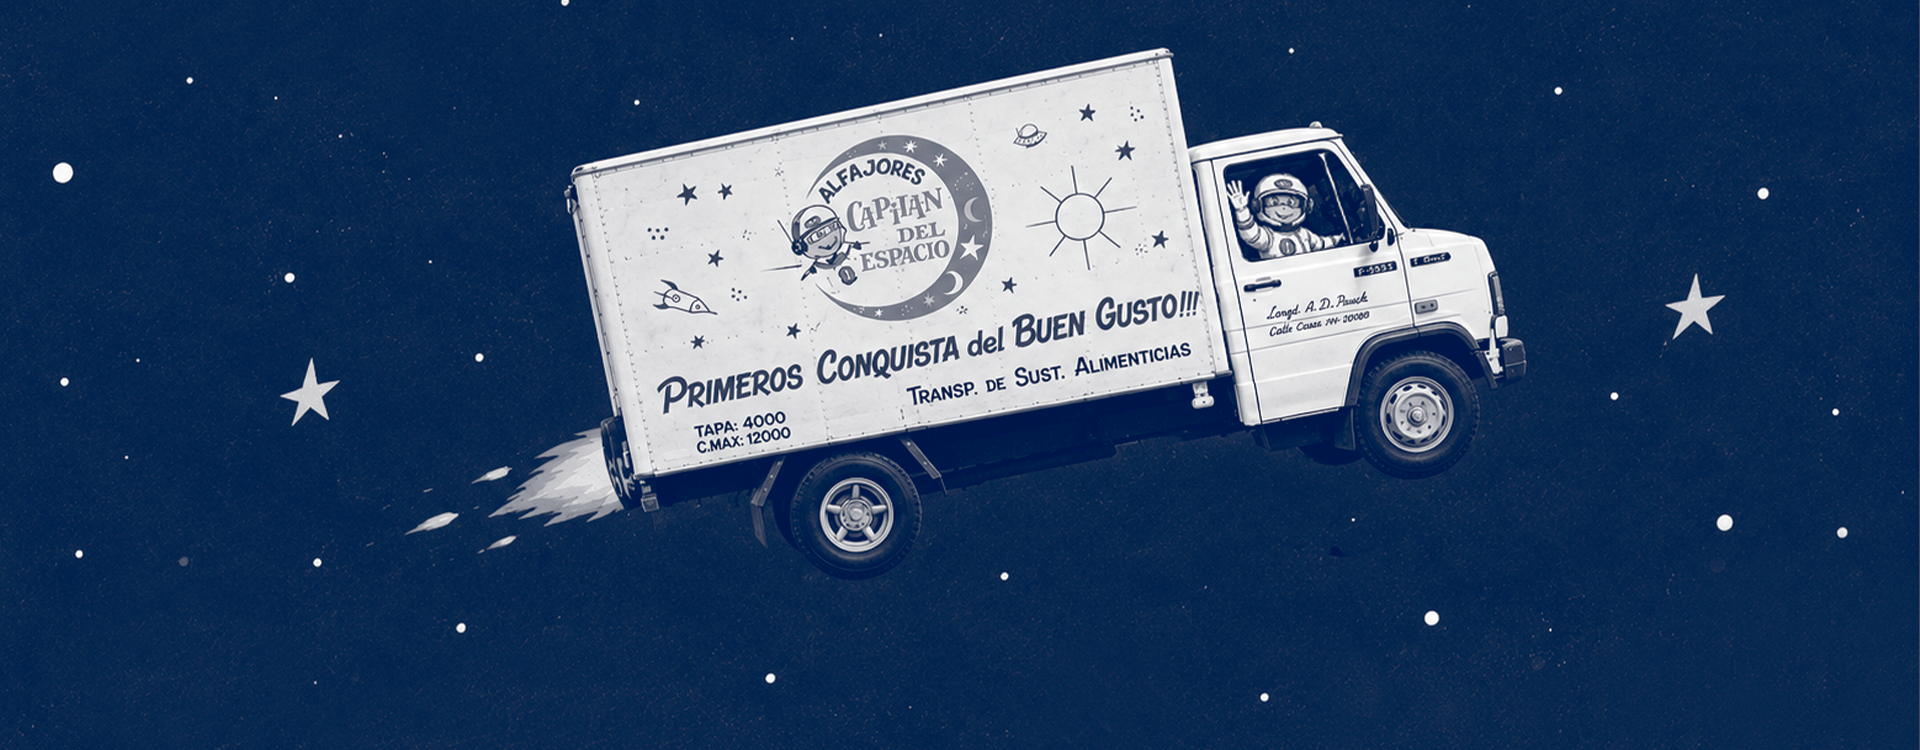
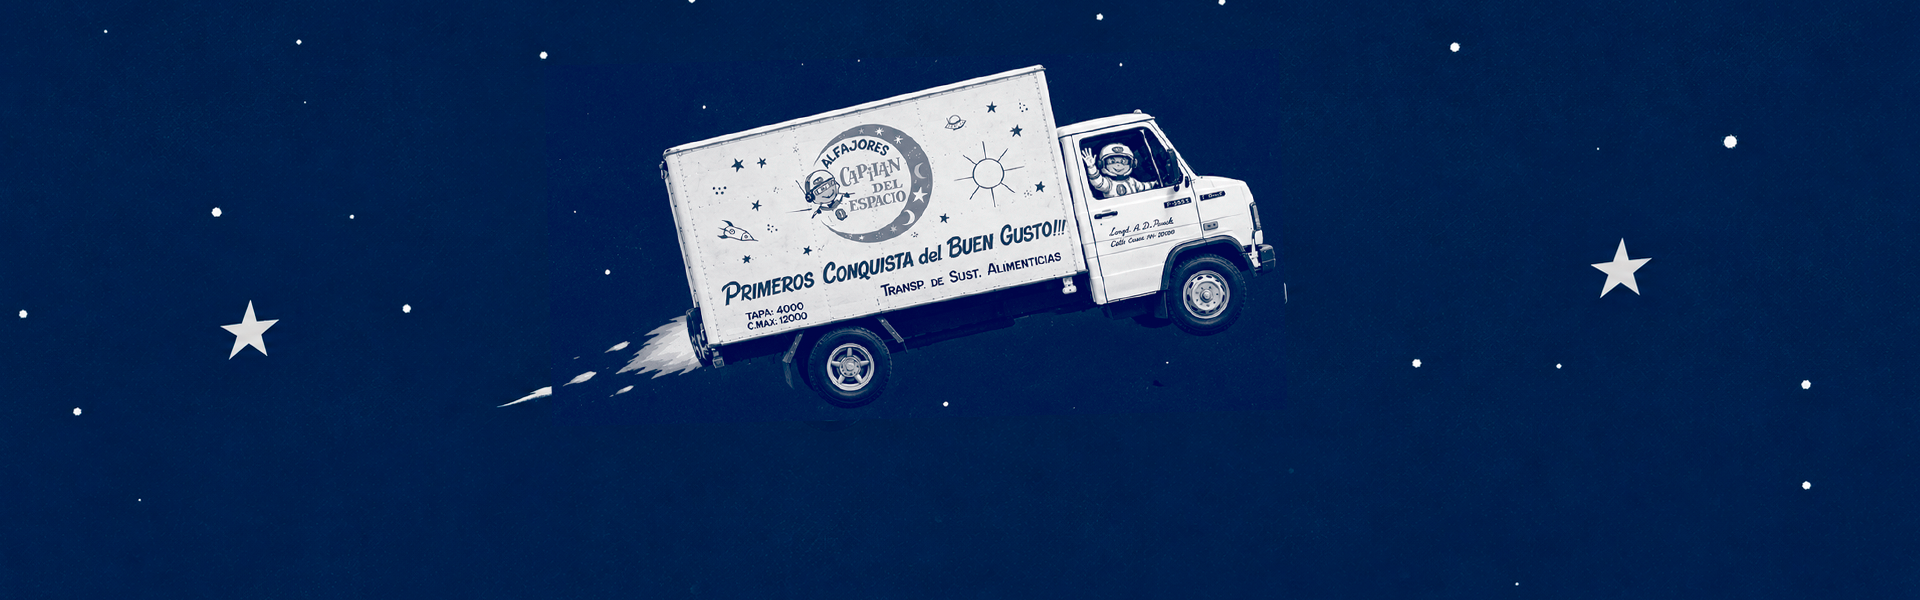
actualizacion

diff --git a/productos.html b/productos.html
@@ -23,7 +23,7 @@
                 <img src="images/svg/logo-header.svg" alt="Capitán del Espacio" width="129" height="60">
             </a>
 
-            <!-- navegación-->
+            <!-- navegación y buscador -->
             <div class="panel" id="panel">
                 <!-- Navegación -->
                 <nav class="navegacion" aria-label="Principal">
@@ -37,7 +37,23 @@
                         <li><a class="navegacion-enlace navegacion-enlace-tienda" href="tienda.html">Tienda</a></li>
                     </ul>
                 </nav>
+
+                <!-- Buscador -->
+                <div class="buscador" role="search">
+                    <label class="oculto-visual" for="campo-busqueda">Buscar en el sitio</label>
+                    <input class="buscador-campo" id="campo-busqueda" type="search" name="q" autocomplete="off">
+                    <button class="buscador-boton" type="submit" aria-label="Buscar"></button>
+                </div>
             </div>
+
+            <!-- Acciones y botones -->
+            <div class="acciones">
+                <!-- acá después hay que cambiar el href por los archivos de registro y de carrito -->
+                <a class="acciones-boton acciones-boton-registro" href="#" aria-label="Iniciar sesión"></a>
+                <a class="acciones-boton acciones-boton-carrito" href="#" aria-label="Carrito"></a>
+            </div>
+
+        </div>
     </header>
 
     <main>
@@ -79,72 +95,66 @@
             <article class="triple">
                 <h2>Triple</h2>
                 <p>Relleno con dulce de leche</p>
-                <p>recubierto con baño de resposteria</p> 
+                <p>recubierto con baño de resposteria</p>
                 <p>de chocolate blanco</p>
                 <img src="images/productos/sabores_alfajor_triple.png" alt="alfajor fruta" height="309" width="243">
             </article>
         </section>
 
         <section class="alfajor-del-año">
-            <h2>alfajor del año</h2>
+            <h2 class="titulo-alfajor-del-año">ALFAJOR DEL AÑO</h2>
             <p>El más elegido por nuestros consumidores</p>
             <p>desde el 1/01/2025 hasta el 31/12/2025</p>
-            <h2 class="fruta">
-                <span>F</span>
-                <span>R</span>
-                <span>U</span>
-                <span>T</span>
-                <span>A</span>
-            </h2>
+            <h2 class="fruta-destacado">FRUTA</h2>
             <img src="images/productos/sabores_alfajor_fruta.png" alt="alfajor del año:fruta" height="309" width="243">
         </section>
 
     </main>
 
-        <footer class="footer">
-            <div class="footer-contenido">
+    <footer class="footer">
+        <div class="footer-contenido">
 
-                <!-- Redes y datos de contacto -->
-                <div class="footer-info">
-                    <ul class="footer-redes">
-                        <li><a class="footer-redes-enlace footer-redes-instagram" href="#" aria-label="Instagram"></a>
-                        </li>
-                        <li><a class="footer-redes-enlace footer-redes-facebook" href="#" aria-label="Facebook"></a>
-                        </li>
-                        <li><a class="footer-redes-enlace footer-redes-tiktok" href="#" aria-label="TikTok"></a></li>
-                        <li><a class="footer-redes-enlace footer-redes-youtube" href="#" aria-label="YouTube"></a></li>
-                    </ul>
+            <!-- Redes y datos de contacto -->
+            <div class="footer-info">
+                <ul class="footer-redes">
+                    <li><a class="footer-redes-enlace footer-redes-instagram" href="#" aria-label="Instagram"></a>
+                    </li>
+                    <li><a class="footer-redes-enlace footer-redes-facebook" href="#" aria-label="Facebook"></a>
+                    </li>
+                    <li><a class="footer-redes-enlace footer-redes-tiktok" href="#" aria-label="TikTok"></a></li>
+                    <li><a class="footer-redes-enlace footer-redes-youtube" href="#" aria-label="YouTube"></a></li>
+                </ul>
 
-                    <address class="footer-contacto">
-                        <p>4253-5224</p>
-                        <p>info@capitandelespaciomr.com.ar</p>
-                        <p>Gran Canaria 1250, B1879, Quilmes, Buenos Aires.</p>
-                    </address>
-                </div>
-
-                <!-- Suscripción -->
-                <div class="footer-suscripcion">
-                    <img class="footer-alfajor" src="images/svg/ilus-alfajor-footer.svg" alt="" width="93" height="121">
-
-                    <div class="footer-comunidad">
-                        <p class="footer-comunidad-titulo">Sumate a nuestra comunidad</p>
-                        <p class="footer-comunidad-texto">Suscribite y recibí un 10% off en tu próxima compra.</p>
-
-                        <form class="footer-formulario" action="mailto:info@capitandelespaciomr.com.ar" method="get">
-                            <input type="hidden" name="subject" value="Suscripción a la comunidad">
-                            <label class="oculto-visual" for="campo-correo">Tu correo electrónico</label>
-                            <input class="footer-formulario-campo" id="campo-correo" type="email" name="body"
-                                placeholder="ejemplo@gmail.com.ar" autocomplete="email" required>
-                        </form>
-                    </div>
-                </div>
+                <address class="footer-contacto">
+                    <p>4253-5224</p>
+                    <p>info@capitandelespaciomr.com.ar</p>
+                    <p>Gran Canaria 1250, B1879, Quilmes, Buenos Aires.</p>
+                </address>
             </div>
 
-            <!-- Legales -->
-            <div class="footer-legales">
-                <p class="footer-legales-texto">©2026 Capitán del Espacio.</p>
-                <a class="footer-legales-enlace" href="#">Política de privacidad.</a>
-                <a class="footer-legales-enlace" href="#">Términos y condiciones.</a>
-                <a class="footer-legales-enlace" href="#">Todos los derechos reservados.</a>
+            <!-- Suscripción -->
+            <div class="footer-suscripcion">
+                <img class="footer-alfajor" src="images/svg/ilus-alfajor-footer.svg" alt="" width="93" height="121">
+
+                <div class="footer-comunidad">
+                    <p class="footer-comunidad-titulo">Sumate a nuestra comunidad</p>
+                    <p class="footer-comunidad-texto">Suscribite y recibí un 10% off en tu próxima compra.</p>
+
+                    <form class="footer-formulario" action="mailto:info@capitandelespaciomr.com.ar" method="get">
+                        <input type="hidden" name="subject" value="Suscripción a la comunidad">
+                        <label class="oculto-visual" for="campo-correo">Tu correo electrónico</label>
+                        <input class="footer-formulario-campo" id="campo-correo" type="email" name="body"
+                            placeholder="ejemplo@gmail.com.ar" autocomplete="email" required>
+                    </form>
+                </div>
             </div>
-        </footer>
+        </div>
+
+        <!-- Legales -->
+        <div class="footer-legales">
+            <p class="footer-legales-texto">©2026 Capitán del Espacio.</p>
+            <a class="footer-legales-enlace" href="#">Política de privacidad.</a>
+            <a class="footer-legales-enlace" href="#">Términos y condiciones.</a>
+            <a class="footer-legales-enlace" href="#">Todos los derechos reservados.</a>
+        </div>
+    </footer>

diff --git a/estilos.css b/estilos.css
@@ -1459,22 +1459,43 @@ body:has(.inicio-sesion[open]) {
   outline-offset: 3px;
 }
 
-/*distribucion*/
+/*----------------------distribucion------------------------*/
+
+
+
+
+
 .hero-distribucion-titulo {
   line-height: 0%;
 }
 
-.hero-distribucion-imagen {
+.hero-distribucion {
+  display: grid;
   width: 100%;
-  height: auto;
-  margin-top: 70px; /*tiene un margen abajo de la imagen gigante que no se de que es*/
+  margin-top: 120px;
+}
+
+.hero-distribucion-imagen {
+  grid-area: 1 / 1;
+  display: block;
+  width: 100%;
+  height: 100%;
+  aspect-ratio: 1920 / 570;
+  object-fit: cover;
+  margin-top: 0;
 }
 
 .hero-distribucion-titulos {
+  grid-area: 1 / 1;
   position: relative;
   color: #E6E6E6;
-  bottom: 130px;
   text-align: center;
+  align-self: end;
+  justify-self: center;
+}
+
+.hero-distribucion-destacado {
+  color: #C83228;
 }
 
 .hero-distribucion-subtitulo {
@@ -1505,6 +1526,11 @@ body:has(.inicio-sesion[open]) {
   grid-template-rows: 220px 200px;
   gap: 50px;
   justify-content: center;
+  align-items: start;
+}
+
+.atencion-al-cliente h2 {
+  margin-top: 0;
 }
 
 .form-consulta input,
@@ -1553,28 +1579,41 @@ body:has(.inicio-sesion[open]) {
 
 
 /*---productos-----*/
-.hero-productos-titulo {
-  line-height: 0%;
+
+.hero-productos {
+  display: grid;
+  width: 100%;
+  margin-top: 120px;
 }
 
 .hero-productos-imagen {
+  grid-area: 1 / 1;
+  display: block;
   width: 100%;
-  height: auto;
-  margin-top: 70px;
-  position: relative;
+  height: 100%;
+  aspect-ratio: 1920 / 570;
+  object-fit: cover;
 }
 
 .hero-productos-titulos {
-  width: 100%;
-  position: absolute;
-  top: 50%;
-  left: 50%;
-  transform: translate(-50%, -50%);
+  grid-area: 1 / 1;
+  position: relative;
+  display: flex;
+  flex-direction: column;
+  justify-content: center;
+  align-items: center;
+  gap: 15px;
+  padding: 15px 8%;
   text-align: center;
   color: #E6E6E6;
 }
 
+.hero-productos-titulo {
+  margin: 0;
+}
+
 .hero-productos-subtitulo {
+  margin: 0;
   display: flex;
   align-items: center;
   justify-content: center;
@@ -1584,6 +1623,24 @@ body:has(.inicio-sesion[open]) {
 .hero-productos-subtitulo::before,
 .hero-productos-subtitulo::after {
   content: "";
+  flex-shrink: 0;
+  width: 26px;
+  height: 26px;
+  background: url("images/svg/estrella.svg") no-repeat center / contain;
+}
+
+.titulo-alfajor-del-año {
+  display: flex;
+  align-items: center;
+  justify-content: center;
+  gap: 10px;
+  margin: 0;
+}
+
+.titulo-alfajor-del-año::before,
+.titulo-alfajor-del-año:after {
+  content: "";
+  display: block;
   flex-shrink: 0;
   width: 26px;
   height: 26px;
@@ -1603,35 +1660,17 @@ body:has(.inicio-sesion[open]) {
   text-align: center;
 }
 
-
-.fruta span {
+.fruta-destacado {
   color: #0F214A;
   animation: cambioColor 3s infinite;
 }
 
-.fruta span:nth-child(1) {
-  animation-delay: 0.1s;
-}
-
-.fruta span:nth-child(2) {
-  animation-delay: 0.2s;
-}
-
-.fruta span:nth-child(3) {
-  animation-delay: 0.3s;
-}
-
-.fruta span:nth-child(4) {
-  animation-delay: 0.4;
-}
-
-.fruta span:nth-child(5) {
-  animation-delay: 0.5;
-}
-
 @keyframes cambioColor {
 
-
+  0%,
+  100% {
+    color: #0F214A;
+  }
 
   50% {
     color: #C83228;

diff --git a/distribucion.html b/distribucion.html
@@ -23,19 +23,37 @@
                 <img src="images/svg/logo-header.svg" alt="Capitán del Espacio" width="129" height="60">
             </a>
 
-            <!-- navegación-->
+            <!-- navegación y buscador -->
             <div class="panel" id="panel">
                 <!-- Navegación -->
                 <nav class="navegacion" aria-label="Principal">
                     <ul class="navegacion-lista">
                         <!-- acá después hay que cambiar el href por los archivos de productos, historia y distribución -->
-                        <li><a class="navegacion-enlace navegacion-enlace-productos" href="productos.html">Productos</a></li>
+                        <li><a class="navegacion-enlace navegacion-enlace-productos" href="productos.html">Productos</a>
+                        </li>
                         <li><a class="navegacion-enlace navegacion-enlace-historia" href="#">Historia</a></li>
-                        <li><a class="navegacion-enlace navegacion-enlace-distribucion" href="distribucion.html">Distribución</a></li>
+                        <li><a class="navegacion-enlace navegacion-enlace-distribucion"
+                                href="distribucion.html">Distribución</a></li>
                         <li><a class="navegacion-enlace navegacion-enlace-tienda" href="tienda.html">Tienda</a></li>
                     </ul>
                 </nav>
+
+                <!-- Buscador -->
+                <div class="buscador" role="search">
+                    <label class="oculto-visual" for="campo-busqueda">Buscar en el sitio</label>
+                    <input class="buscador-campo" id="campo-busqueda" type="search" name="q" autocomplete="off">
+                    <button class="buscador-boton" type="submit" aria-label="Buscar"></button>
+                </div>
             </div>
+
+            <!-- Acciones y botones -->
+            <div class="acciones">
+                <!-- acá después hay que cambiar el href por los archivos de registro y de carrito -->
+                <a class="acciones-boton acciones-boton-registro" href="#" aria-label="Iniciar sesión"></a>
+                <a class="acciones-boton acciones-boton-carrito" href="#" aria-label="Carrito"></a>
+            </div>
+
+        </div>
     </header>
 
     <main>
@@ -43,7 +61,7 @@
             <img class="hero-distribucion-imagen" src="images/distribucion/distribución.png" alt="distribucion"
                 width="1920" height="570">
             <div class="hero-distribucion-titulos">
-                <h1 class="hero-distribucion-titulo"> El clásico del sur a tu kiosko
+                <h1 class="hero-distribucion-titulo"> El <strong class="hero-distribucion-destacado">clásico del sur</strong> a tu kiosko
                 </h1>
                 <h2 class="hero-distribucion-subtitulo">no solo usamos cohete</h2>
             </div>

diff --git a/historia.html b/historia.html
@@ -61,8 +61,8 @@
                     width="1920" height="600">
                 <img class="hero-historia-imagen" src="images/nuestra-historia/historia-hero3.jpg" alt="banner-rotativo-cde"
                     width="1920" height="600">
-                <button class="hero-historia-anterior">❮</button>
-                <button class="hero-historia-siguiente">❯</button>
+                <button class="hero-historia-anterior"></button>
+                <button class="hero-historia-siguiente"></button>
                 <div class="hero-historia-textos">
                     <h1 class="hero-historia-titulo">La <strong class="hero-historia-destacado">conquista</strong> del sabor</h1>
                     <h2 class="hero-historia-subtitulo">La historia detrás del alfajor</h2>
